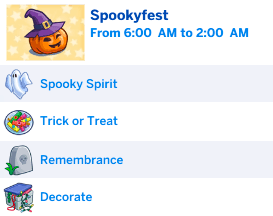
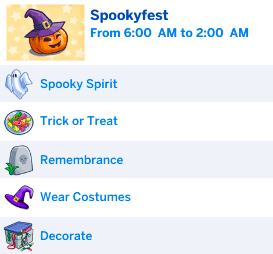
Updates for extra holidays.

Changed region(s): [[0.0, 0.0, 0.9084, 1.0]]

diff --git a/data/mods/extra-holidays/changelog.html b/data/mods/extra-holidays/changelog.html
@@ -3,6 +3,7 @@
   <ul>
     <li>Rename mod from "Halloween Holiday" to "Extra Holidays"</li>
     <li>Rename "Halloween" to "Spookyfest" by default</li>
+    <li>Add "Wear Costumes" to Spookyfest traditions</li>
     <li>Add "Flower Day" holiday (based on Easter)</li>
     <li>
       Rename <code>HolidayNameOverride.txt</code> to
